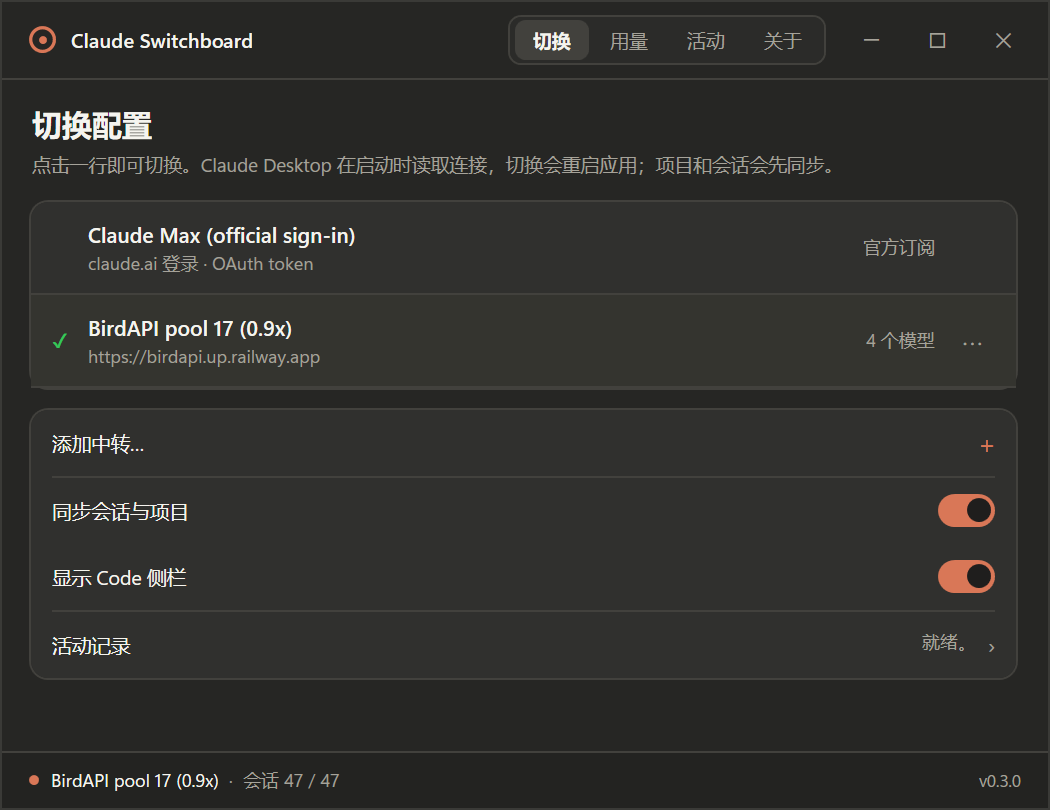
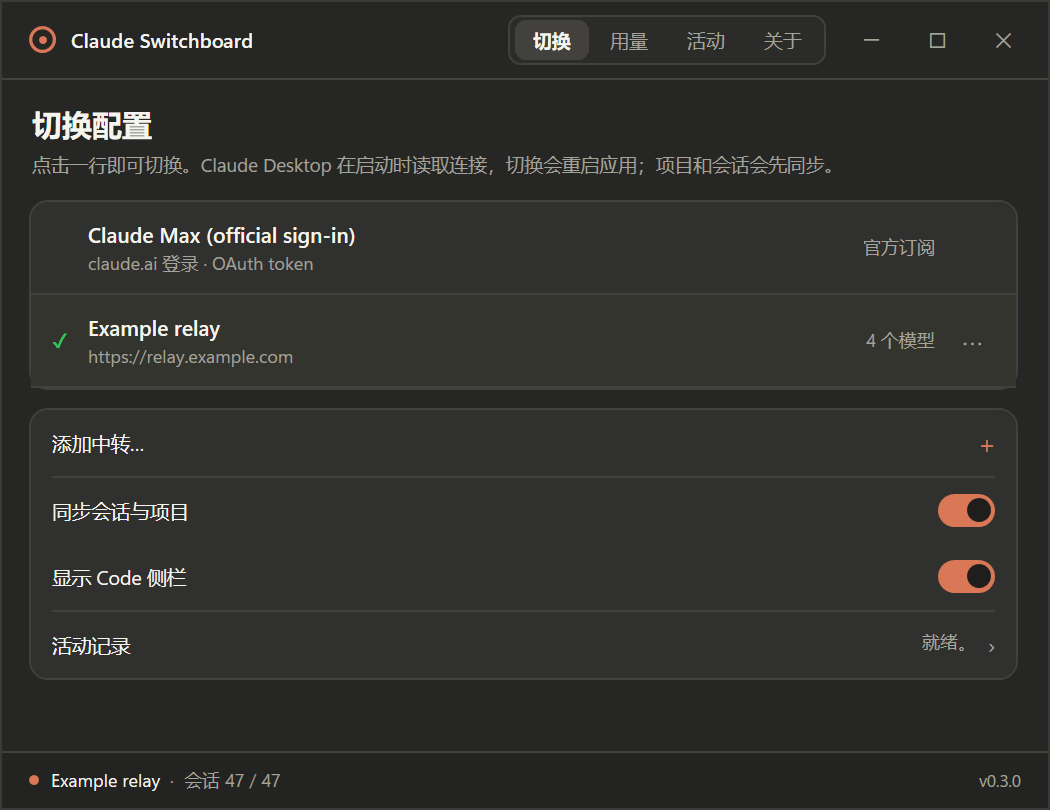
fix(ui): switch when a profile row is clicked; sanitize the screenshot
Click bubbles through the ItemsControl, where RoutedEventArgs.Source is the list itself. Resolve the actual Button from OriginalSource, walking up from the text node, so row clicks switch profiles and the row menu opens.

Replace the README screenshot with a generic Example relay / relay.example.com capture; add a privacy section noting that profiles.json stays in %LOCALAPPDATA% and is gitignored.

Changed region(s): [[0.0914, 0.3704, 0.3048, 0.463], [0.061, 0.9568, 0.3352, 0.9877]]

diff --git a/README.zh-CN.md b/README.zh-CN.md
@@ -89,6 +89,13 @@ claude-opus-5-5 | Claude Opus 5.5 | opus | 1m
 1. **顺序**：退出 Claude → 同步会话 → 写配置 → 启动。应用退出时会回写自己的设置，先写后杀会被覆盖。
 2. **编码**：配置 JSON 必须是 UTF-8 **无 BOM**；带 BOM 时应用解析失败并静默保持旧模式。
 
+## 隐私
+
+所有数据都在本机。网关配置（含 DPAPI 加密的 API Key）存在
+`%LOCALAPPDATA%\ClaudeSwitchboard\profiles.json`，这个文件、日志和扫描结果都在仓库外，
+`.gitignore` 也会排除误放进项目目录的副本。会话卡片和 Claude Code 转录只在本机读取；
+除了你配置的网关，程序不发起网络请求。
+
 ## 用量面板
 
 读取本地 Claude Code 转录，展示 7/30 天的总量、按模型、按项目统计。费用按公开价格估算（缓存读 0.1×，缓存写 5 分钟 1.25×、1 小时 2×）。不联网、不读取凭据。

diff --git a/README.md b/README.md
@@ -102,6 +102,14 @@ Two details matter:
 2. **Encoding**: config JSON must be UTF-8 **without BOM**. A BOM makes the app ignore
    the file and silently keep the previous mode.
 
+## Privacy
+
+Everything stays on this machine. Gateway profiles, including the DPAPI-encrypted API
+key, live in `%LOCALAPPDATA%\ClaudeSwitchboard\profiles.json` — outside the repository.
+That file, logs and scan output are excluded by `.gitignore` in case a copy lands in the
+project folder. Session cards and Claude Code transcripts are read locally; the app makes
+no network calls except to the gateway you configure.
+
 ## Usage dashboard
 
 The Usage tab reads local Claude Code transcripts. It shows totals for 7 or 30 days,

diff --git a/CHANGELOG.md b/CHANGELOG.md
@@ -15,6 +15,8 @@
   switch page shows only the latest line.
 - Add/edit gateway dialog rebuilt as a dark 560×680 form with the app icon, dark
   scrollbars and the orange save button. API keys remain DPAPI-encrypted.
+- Fixed profile-row clicks: the Click event is routed through the items list, so the
+  handler now resolves the actual row button from `OriginalSource` before switching.
 - Dark DWM title bar and rounded window corners; popup menus use the app palette.
 - Tab pages reset to the top when opened.
 
